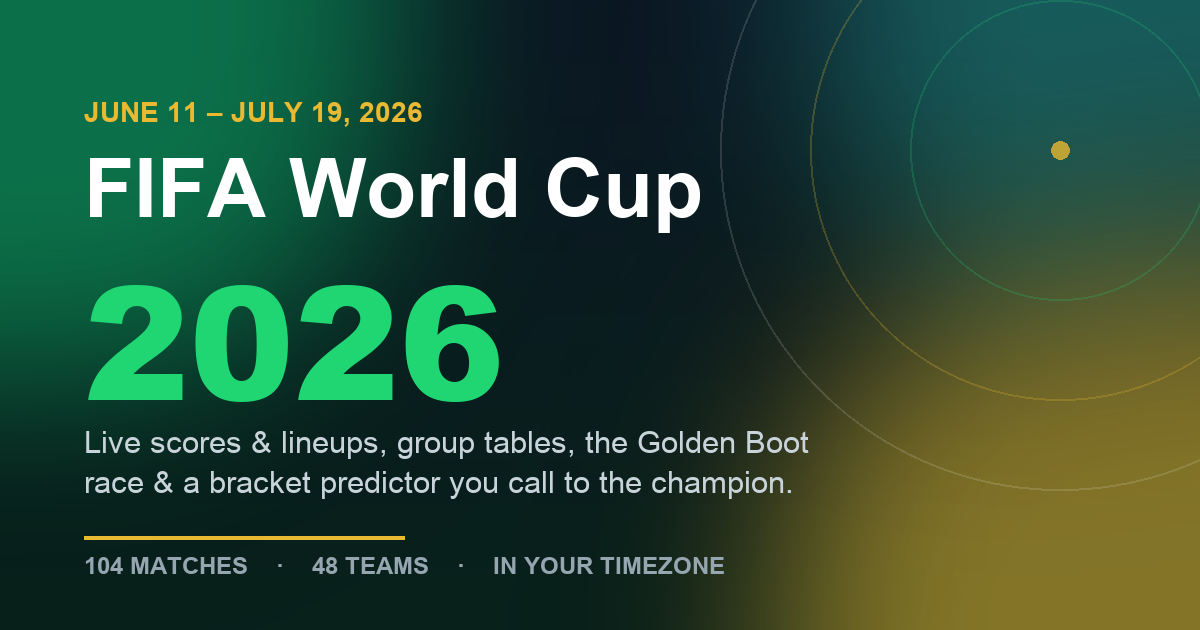
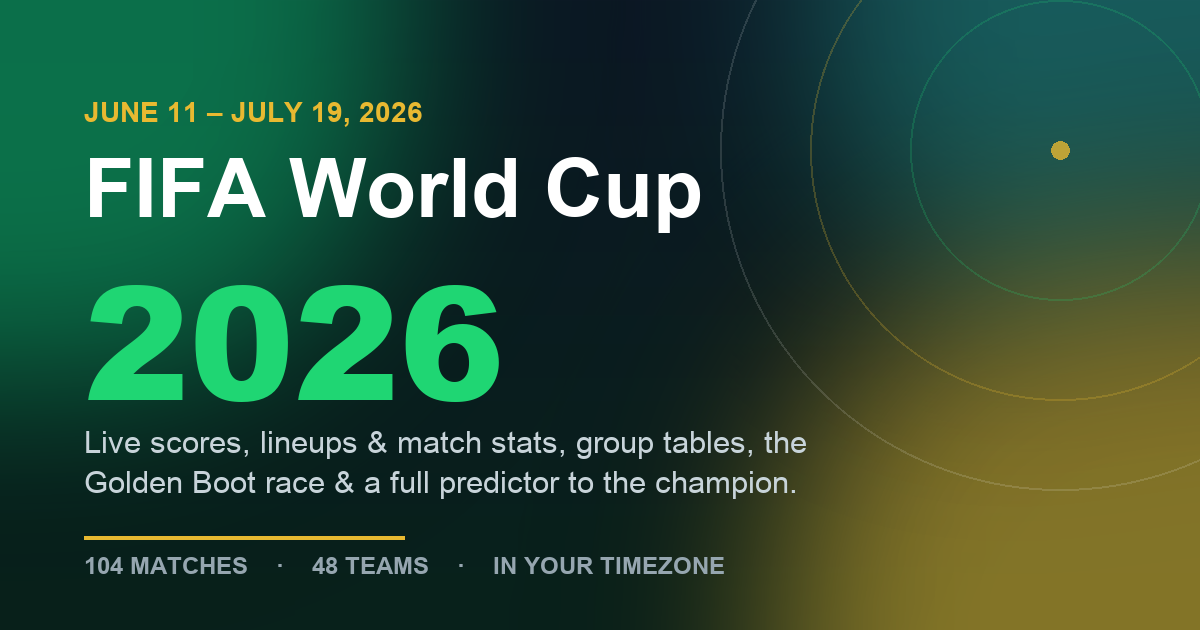
docs: refresh README + social share card for the current feature set
- README "What's inside" rewritten to cover everything shipped (team detail + road-to-final,
  rotation, third-place race, knockout projection, Stats sub-nav with assists/keepers/
  suspension/fair-play/records/compare/confederations, Day in review, match alerts, data
  saver, webcal subscribe, a11y). Data table + build-tooling note updated (ics + make-og /
  make-icons one-offs).
- Regenerated assets/og.png with a current tagline ("…match stats… a full predictor to the
  champion") and bumped the og:image cache version (?v=21 -> ?v=98) so socials re-scrape.
  Title text on the card stays "FIFA World Cup 2026".

Changed region(s): [[0.0617, 0.6635, 0.6783, 0.7841]]

diff --git a/index.html b/index.html
@@ -10,14 +10,14 @@
 <meta property="og:url" content="https://lavyagarg240294.github.io/wc26/">
 <meta property="og:title" content="FIFA World Cup 2026 — your live companion">
 <meta property="og:description" content="Live scores & lineups, match stats, group tables, the Golden Boot race, and a bracket predictor you can call all the way to the champion — every match in your timezone.">
-<meta property="og:image" content="https://lavyagarg240294.github.io/wc26/assets/og.png?v=21">
+<meta property="og:image" content="https://lavyagarg240294.github.io/wc26/assets/og.png?v=98">
 <meta property="og:image:width" content="1200">
 <meta property="og:image:height" content="630">
 <meta property="og:image:alt" content="FIFA World Cup 2026 — live scores, lineups, stats and a full predictor">
 <meta name="twitter:card" content="summary_large_image">
 <meta name="twitter:title" content="FIFA World Cup 2026 — your live companion">
 <meta name="twitter:description" content="Live scores & lineups, match stats, group tables, the Golden Boot race, and a bracket predictor you can call all the way to the champion — every match in your timezone.">
-<meta name="twitter:image" content="https://lavyagarg240294.github.io/wc26/assets/og.png?v=21">
+<meta name="twitter:image" content="https://lavyagarg240294.github.io/wc26/assets/og.png?v=98">
 <meta name="theme-color" content="#0BA360">
 <script>try{var t=localStorage.getItem('wc26.theme');if(t==='dark'||(!t&&matchMedia('(prefers-color-scheme:dark)').matches)){document.documentElement.dataset.theme='dark';var m=document.querySelector('meta[name=theme-color]');if(m)m.content='#0E1822';}}catch(e){}</script>
 <link rel="manifest" href="site.webmanifest">

diff --git a/scripts/make-og.py b/scripts/make-og.py
@@ -41,8 +41,8 @@ d.text((x, 96), "JUNE 11 – JULY 19, 2026", font=f(FB, 28), fill=(232, 185, 49)
 d.text((x, 142), "FIFA World Cup", font=f(FB, 82), fill=(255, 255, 255))
 d.text((x, 226), "2026", font=f(FBL, 158), fill=(31, 214, 115))
 tag = f(FR, 31)
-d.text((x, 424), "Live scores & lineups, group tables, the Golden Boot", font=tag, fill=(200, 212, 218))
-d.text((x, 464), "race & a bracket predictor you call to the champion.", font=tag, fill=(200, 212, 218))
+d.text((x, 424), "Live scores, lineups & match stats, group tables, the", font=tag, fill=(200, 212, 218))
+d.text((x, 464), "Golden Boot race & a full predictor to the champion.", font=tag, fill=(200, 212, 218))
 d.rectangle([x, 536, x + 320, 539], fill=(232, 185, 49))
 d.text((x, 552), "104 MATCHES    ·    48 TEAMS    ·    IN YOUR TIMEZONE", font=f(FB, 24), fill=(150, 166, 176))
 

diff --git a/README.md b/README.md
@@ -3,12 +3,13 @@
 A fast, no-build fan site for the **FIFA World Cup 2026** — every match in your timezone, a favorite team that re-themes the whole UI, and a tournament that fills itself in as games are played.
 
 **What's inside**
-- **Live match detail** — score + minute, a goal/card/sub **timeline** (tap any player for a mini profile — photo, club, caps & what they did in the match), **lineups on a formation pitch** (with official player photos), a match-flow sparkline, and **match stats** (possession, shots, corners, fouls).
-- **Groups** — live standings + a "what each team needs to qualify" outlook.
-- **Stats** — tournament pulse, the **Golden Boot** race, and per-match **team stats** (attack, defence, possession, shots on target, and yellow/red cards).
+- **Matches** — every fixture in your timezone with a live hero + countdown, a **Match of the day** marquee pick, and a **Day in review** digest (recap: results · goals · top scorer · biggest result; preview: a "one to watch" pick + the rest of the day's games), navigable by date.
+- **Live match detail** — score + minute, a goal/card/sub **timeline** (tap any player for a mini profile — photo, club, caps & what they did in the match), **lineups on a formation pitch** (official player photos), a match-flow sparkline, and **match stats** (possession, shots, corners, fouls).
+- **Teams** — tap any team anywhere for a detail sheet: overview, recent form, every fixture, the group standing + qualification outlook, a one-tap follow (re-themes the UI to their kit — contrast-guarded so it always stays readable), **squad rotation & minutes**, the full squad, **"road to the final"** (a projected knockout route from live standings), and a one-tap **calendar subscribe**.
+- **Groups** — 12 live tables + a "what each team needs to qualify" outlook, a **third-place race** tracker (the best-8-of-12 cut line the new format needs), and a collapsible **"projected Round of 32 if the groups ended today."**
 - **Predict** — order every group, pick the best third-placed teams, then tap winners through a full knockout **bracket** to crown your champion (seeded from live standings so it's ready to play with right away), see **how your call is tracking vs reality**, and **share your bracket as a ~30-character link**.
-- **Teams** — tap any team for a detail sheet: overview, recent form, every fixture, the group standing + qualification outlook, a one-tap follow (re-themes the UI), and the squad.
-- Plus: **global search** (⌘K — teams, players, matches), a **Day in review** digest (results, goals, top scorer & what's on, navigable by date), **installable to your home screen** (PWA), **dark mode**, a **Settings** sheet (anthem + goal horn + timezone), **calendar (.ics) export**, per-match **share cards** that unfurl on social, and a fully mobile-first, re-themable UI.
+- **Stats** (Players · Teams · Discipline · Records · Tournament) — the **Golden Boot** & **assists** races, **goalkeepers/clean sheets**, per-match **team stats**, a **suspension watch** and **fair-play** table, **records** (biggest win, fastest/latest goal…), a **player head-to-head** compare, tournament pulse and a **confederation** breakdown.
+- Plus: **global search** (⌘K — teams, players, matches), **installable to your home screen** (PWA), **dark mode**, **match alerts** (goal/kickoff notifications) and **data-saver** mode, a **Settings** sheet, **calendar** export + **webcal subscribe**, per-match **share cards** that unfurl on social, an accessibility pass (keyboard focus, reduced-motion, screen-reader live goals), and a fully mobile-first, re-themable UI.
 
 **Stack:** plain `index.html` + `styles.css` + one vanilla-JS `app.js` on GitHub Pages, fed by GitHub Actions that commit JSON into the repo. **No API keys are required to run it** — live scores, events, lineups, stats and player photos all come from free, keyless sources. Total cost: **$0**.
 
@@ -71,6 +72,7 @@ All sources are fetched **server-side in the Action** (even the CORS-enabled one
 | `details.json` | per-match `{xi,ev,stats}` — lineups, event timeline, match stats (split out so it isn't re-polled every minute; the client merges it over `results.json`) | scores Action |
 | `photos.json` | official player headshots harvested from FIFA lineups (`"ShortName|CODE"` → image URL) | scores Action |
 | `squads.json` | 26-man squads per team | squads Action |
+| `ics/*.ics` | static per-team + all-matches calendars for webcal subscription (schedule is fixed) | `scripts/make-ics.mjs`, one-off |
 
 The favorite team, timezone and saved prediction live in each visitor's `localStorage` — they never leave the device.
 
@@ -86,7 +88,7 @@ Edit anything, commit, push — every visitor sees it on their next load. **Ther
 ```
 `st`: `SCHED` | `LIVE` | `HT` | `FT` · `h/a`: goals · `hp/ap`: penalties · `ht/at`: resolved team codes (knockouts) · `min`: live minute. The heavy per-match detail (`xi`: lineups · `ev`: goal/card/sub timeline · `stats`: `[home,away]` pairs) lives in `data/details.json` (same `matches` keys), split out so the polled `results.json` stays small. Tap any match card for the full detail view.
 
-**Share cards** are the one piece with build tooling (`scripts/make-share-cards.mjs` uses `satori` + `@resvg/resvg-js`; see `package.json`). They run only in their own Action — `node_modules` is gitignored and the core scores pipeline stays dependency-free.
+**Share cards** are the one piece with npm build tooling (`scripts/make-share-cards.mjs` uses `satori` + `@resvg/resvg-js`; see `package.json`). They run only in their own Action — `node_modules` is gitignored and the core scores pipeline stays dependency-free. A few other assets are generated **once and committed** (no Action, no runtime cost): the social card (`scripts/make-og.py`, Pillow), the PWA icons (`scripts/make-icons.py`, Pillow), and the webcal calendars (`scripts/make-ics.mjs`, no deps).
 
 ---
 
